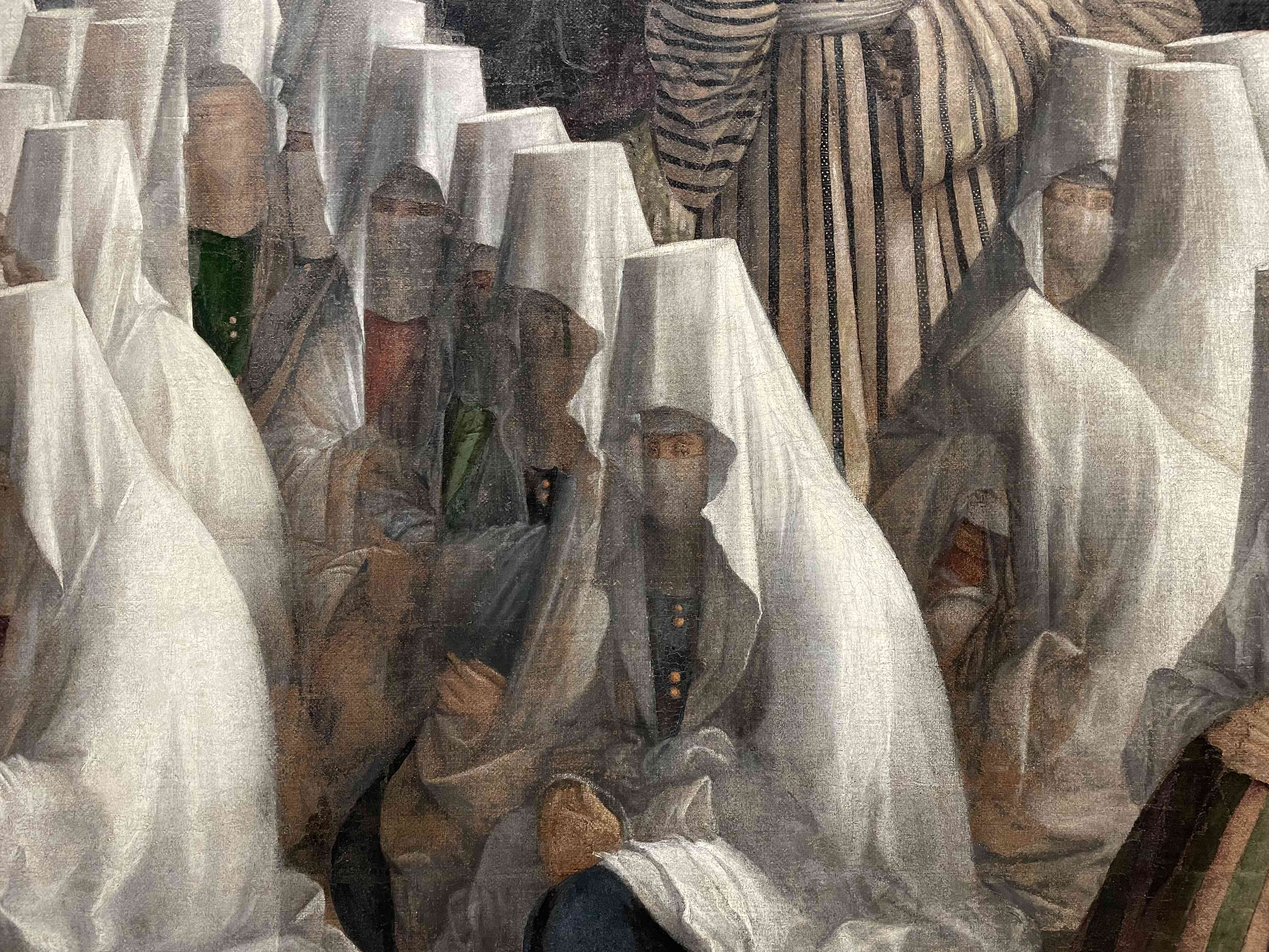
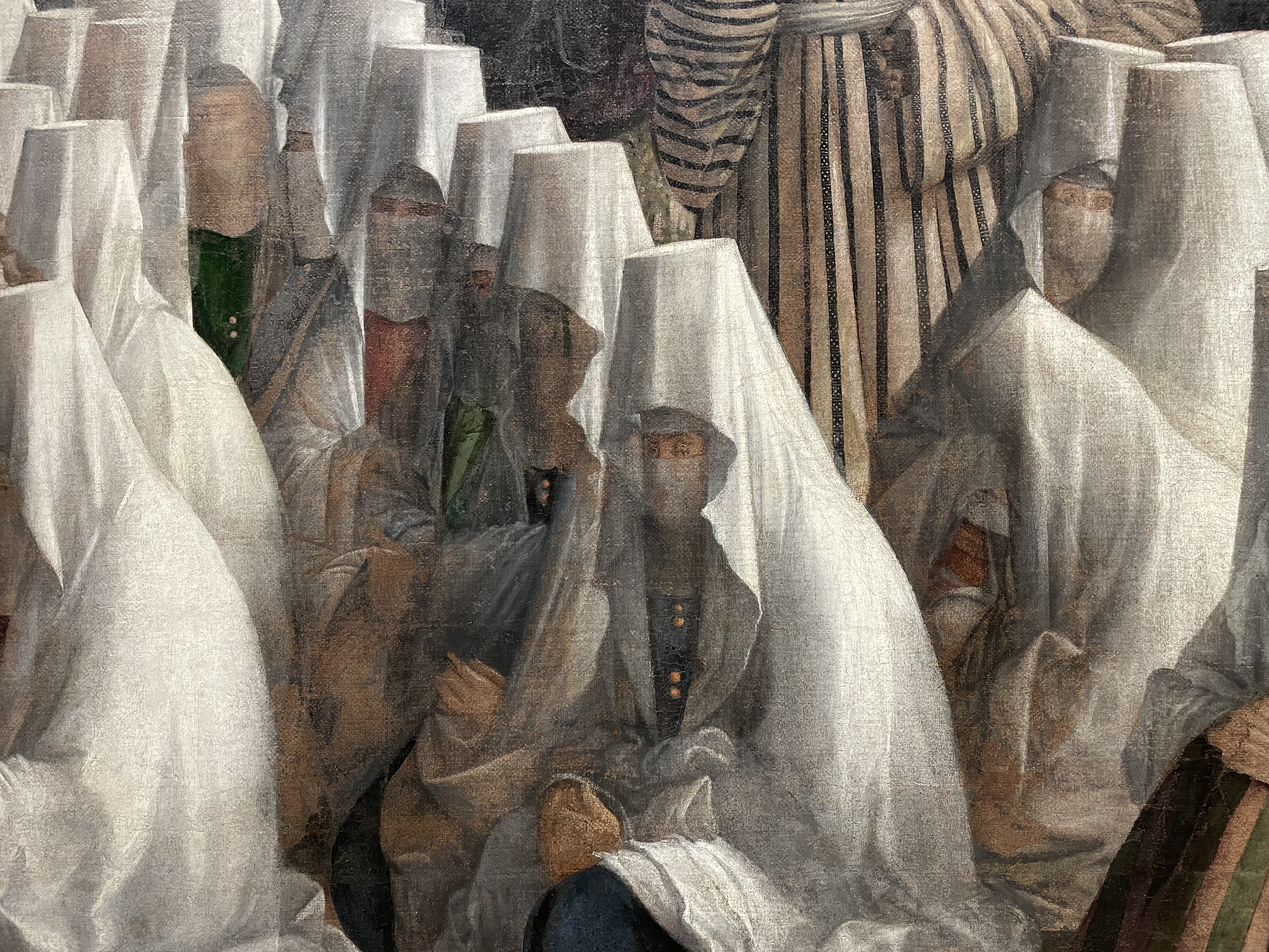
add image thumbnails

diff --git a/src/assets/images/Images.ts b/src/assets/images/Images.ts
@@ -50,4 +50,56 @@ export const IMAGES = {
   IMG_0280: new URL("./IMG_0280.jpeg", import.meta.url).href,
 };
 
+export const IMAGES_THUMBS = {
+  IMG_6398: new URL("./IMG_6398_thumb.jpg", import.meta.url).href,
+  IMG_6399: new URL("./IMG_6399_thumb.jpg", import.meta.url).href,
+  IMG_6437: new URL("./IMG_6437_thumb.jpg", import.meta.url).href,
+  IMG_6452: new URL("./IMG_6452_thumb.jpg", import.meta.url).href,
+  IMG_6454: new URL("./IMG_6454_thumb.jpg", import.meta.url).href,
+  IMG_8325: new URL("./IMG_8325_thumb.jpg", import.meta.url).href,
+  IMG_8332: new URL("./IMG_8332_thumb.jpg", import.meta.url).href,
+  IMG_8334: new URL("./IMG_8334_thumb.jpg", import.meta.url).href,
+  IMG_8345: new URL("./IMG_8345_thumb.jpg", import.meta.url).href,
+  IMG_8366: new URL("./IMG_8366_thumb.jpg", import.meta.url).href,
+  IMG_8370: new URL("./IMG_8370_thumb.jpg", import.meta.url).href,
+  IMG_8372: new URL("./IMG_8372_thumb.jpg", import.meta.url).href,
+  IMG_8402: new URL("./IMG_8402_thumb.jpg", import.meta.url).href,
+  IMG_8418: new URL("./IMG_8418_thumb.jpg", import.meta.url).href,
+  IMG_8421: new URL("./IMG_8421_thumb.jpg", import.meta.url).href,
+  IMG_8424: new URL("./IMG_8424_thumb.jpg", import.meta.url).href,
+  IMG_8770: new URL("./IMG_8770_thumb.jpg", import.meta.url).href,
+  IMG_8807: new URL("./IMG_8807_thumb.jpg", import.meta.url).href,
+  IMG_8833: new URL("./IMG_8833_thumb.jpg", import.meta.url).href,
+  IMG_8848: new URL("./IMG_8848_thumb.jpg", import.meta.url).href,
+  IMG_9235: new URL("./IMG_9235_thumb.jpeg", import.meta.url).href,
+  IMG_9259: new URL("./IMG_9259_thumb.jpeg", import.meta.url).href,
+  IMG_9266: new URL("./IMG_9266_thumb.jpeg", import.meta.url).href,
+  IMG_9274: new URL("./IMG_9274_thumb.jpeg", import.meta.url).href,
+  IMG_9282: new URL("./IMG_9282_thumb.jpeg", import.meta.url).href,
+  IMG_9301: new URL("./IMG_9301_thumb.jpeg", import.meta.url).href,
+  IMG_9305: new URL("./IMG_9305_thumb.jpeg", import.meta.url).href,
+  IMG_9312: new URL("./IMG_9312_thumb.jpeg", import.meta.url).href,
+  IMG_9321: new URL("./IMG_9321_thumb.jpeg", import.meta.url).href,
+  IMG_9331: new URL("./IMG_9331_thumb.jpeg", import.meta.url).href,
+  IMG_0119: new URL("./IMG_0119_thumb.jpeg", import.meta.url).href,
+  IMG_0140: new URL("./IMG_0140_thumb.jpeg", import.meta.url).href,
+  IMG_0148: new URL("./IMG_0148_thumb.jpeg", import.meta.url).href,
+  IMG_0171: new URL("./IMG_0171_thumb.jpeg", import.meta.url).href,
+  IMG_0178: new URL("./IMG_0178_thumb.jpeg", import.meta.url).href,
+  IMG_0202: new URL("./IMG_0202_thumb.jpeg", import.meta.url).href,
+  IMG_0203: new URL("./IMG_0203_thumb.jpeg", import.meta.url).href,
+  IMG_0205: new URL("./IMG_0205_thumb.jpeg", import.meta.url).href,
+  IMG_0206: new URL("./IMG_0206_thumb.jpeg", import.meta.url).href,
+  IMG_0210: new URL("./IMG_0210_thumb.jpeg", import.meta.url).href,
+  IMG_0219: new URL("./IMG_0219_thumb.jpeg", import.meta.url).href,
+  IMG_0230: new URL("./IMG_0230_thumb.jpeg", import.meta.url).href,
+  IMG_0235: new URL("./IMG_0235_thumb.jpeg", import.meta.url).href,
+  IMG_0255: new URL("./IMG_0255_thumb.jpeg", import.meta.url).href,
+  IMG_0258: new URL("./IMG_0258_thumb.jpeg", import.meta.url).href,
+  IMG_0267: new URL("./IMG_0267_thumb.jpeg", import.meta.url).href,
+  IMG_0270: new URL("./IMG_0270_thumb.jpeg", import.meta.url).href,
+  IMG_0277: new URL("./IMG_0277_thumb.jpeg", import.meta.url).href,
+  IMG_0280: new URL("./IMG_0280_thumb.jpeg", import.meta.url).href,
+};
+
 export type ImagesKey = keyof typeof IMAGES;

diff --git a/src/components/photo-card/PhotoCard.tsx b/src/components/photo-card/PhotoCard.tsx
@@ -1,4 +1,8 @@
-import { IMAGES, type ImagesKey } from "../../assets/images/Images";
+import {
+  IMAGES,
+  IMAGES_THUMBS,
+  type ImagesKey,
+} from "../../assets/images/Images";
 import ImageContainer from "../image-container/image-container";
 import "./photo-card.less";
 
@@ -27,7 +31,7 @@ function PhotoCard({ id, title, imgSrc, painter, onClick }: PhotoCardProps) {
         className="photo-card-image"
         src={IMAGES[imageSrc]}
         altText={title}
-        thumb={IMAGES[imageSrc]}
+        thumb={IMAGES_THUMBS[imageSrc]}
       />
       <div className="middle">
         <div className="text">{`${title}\n\n${painter}`}</div>
